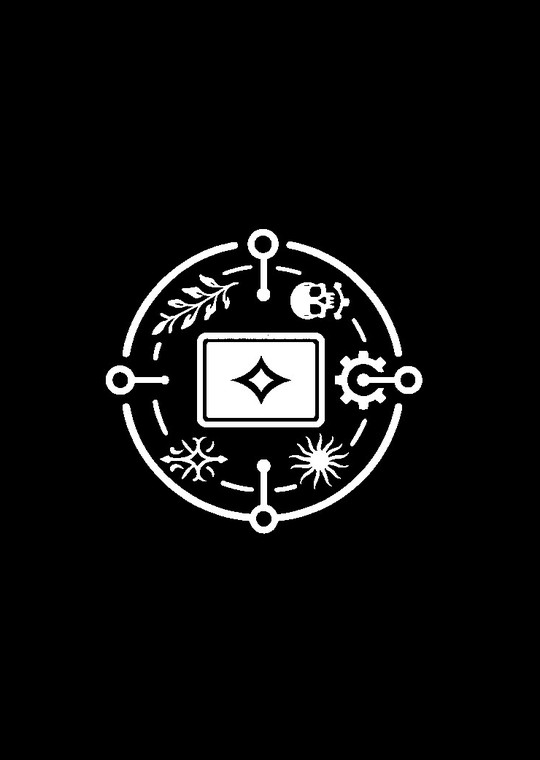
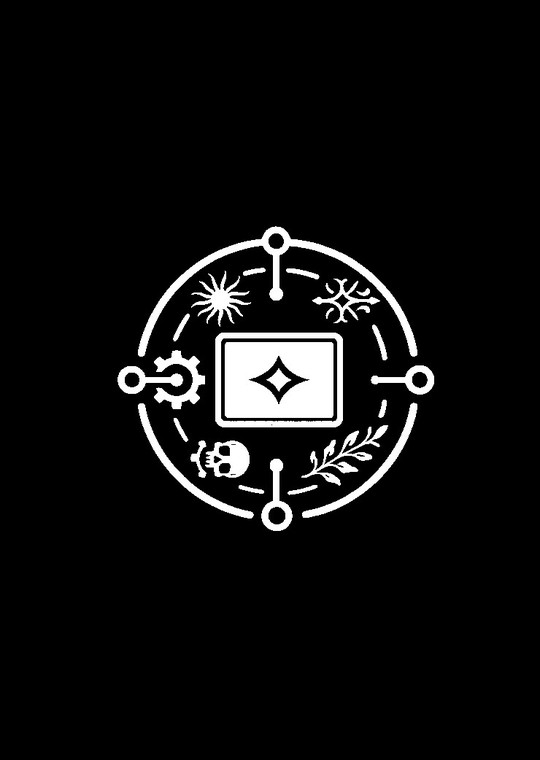
SAM1-50: flip rotation CCW → CW, hardware was 90° off

Changed region(s): [[0.1778, 0.2724, 0.8, 0.7263]]

diff --git a/scripts/regen_card_back.py b/scripts/regen_card_back.py
@@ -22,7 +22,7 @@ LONGEST = 700
 
 def main() -> None:
     src = Image.open(SRC).convert("L")
-    rotated = src.rotate(90, expand=True)  # PIL positive = CCW
+    rotated = src.rotate(-90, expand=True)  # PIL positive = CCW, negative = CW
 
     w, h = rotated.size
     scale = LONGEST / max(w, h)
